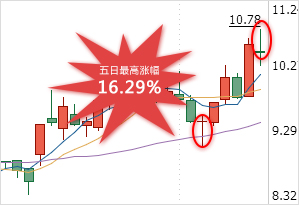
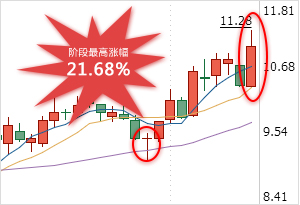
add maxin3

diff --git a/app/static/js/teacher_stock.js b/app/static/js/teacher_stock.js
@@ -1,9 +1,5 @@
 import shaojunjie1 from '../img/stocks/shaojunjie1.jpg'
-import wuweiwei1 from '../img/stocks/wuweiwei1.jpg'
-import wuweiwei2 from '../img/stocks/wuweiwei2.jpg'
 import wuweiwei3 from '../img/stocks/wuweiwei3.jpg'
-import maxin1 from '../img/stocks/maxin1.jpg'
-import maxin2 from '../img/stocks/maxin2.jpg'
 import maxin3 from '../img/stocks/maxin3.jpg'
 import zhouyue1 from '../img/stocks/zhouyue1.jpg'
 import zhouyue2 from '../img/stocks/zhouyue2.jpg'
@@ -23,10 +19,10 @@ let maxin = [
     {
         name: '世荣兆业',
         code: '002016',
-        result: '16.29%',
+        result: '21.68%',
         daySend: '2017.11.20',
-        day:'5',
-        dayCount: '五日最高涨幅',
+        day:'9',
+        dayCount: '九日最高涨幅',
         img: maxin3
     }/*,
     {

diff --git a/app/App.js b/app/App.js
@@ -1,3 +1,4 @@
+'use strict'
 import React from 'react'
 import {
     Route,
